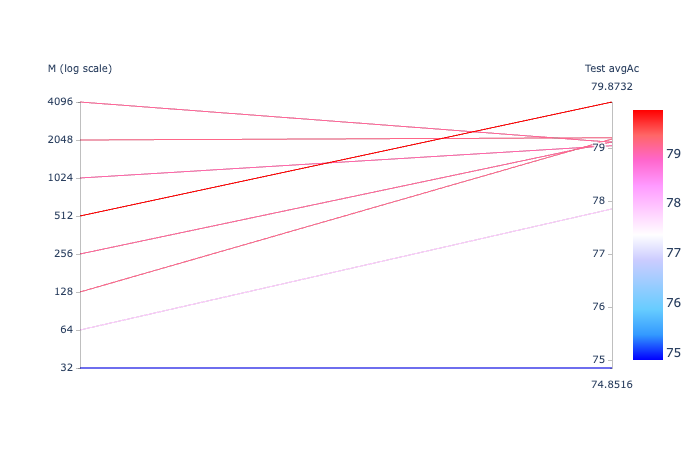
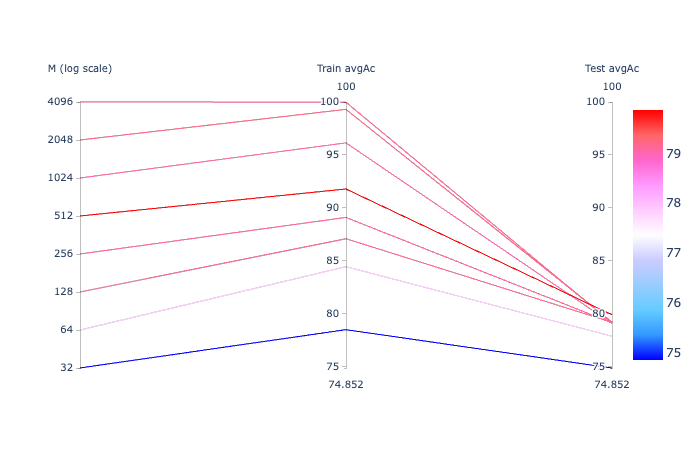
adjs to optionally include Train avgAc in plot

diff --git a/exerc06/summary-parallel.py b/exerc06/summary-parallel.py
@@ -4,7 +4,7 @@ import plotly.graph_objects as go
 import numpy as np
 
 
-def do_plot(csv_filename):
+def do_plot(csv_filename, show_train):
     summary = pd.read_csv(csv_filename)
 
     dimensions = []
@@ -23,53 +23,64 @@ def do_plot(csv_filename):
         )
         dimensions.append(d)
 
-    def add_other_dimension(label, values):
+    def add_other_dimension(label, values, range=None):
+        range = range or [values.min(), values.max()]
+        # print('range={}  label={}'.format(range, label))
         d = dict(
           label = label,
-          range = [values.min(), values.max()],
+          range = range,
           values = values
         )
-        if label != 'Test avgAc':
+        if label != 'Test avgAc' and label != 'Train avgAc':
             d['tickvals'] = values.unique()
         dimensions.append(d)
 
+    test_avg_ac = summary['Test avgAc']
+
+    # when also showing 'Train avgAc', a common `range` for this one
+    # and 'Test avgAc' helps with the visualization
+    range = None
+
+    def add_train_if_so_desired():
+      if show_train:
+          train_avg_ac = summary['Train avgAc']
+          range_min = min(train_avg_ac.min(), test_avg_ac.min())
+          range_max = max(train_avg_ac.max(), test_avg_ac.max())
+          if range_max >= 97:
+              range_max = 100
+          range = [range_min, range_max]
+          # print('range={}'.format(range))
+          add_other_dimension('Train avgAc', train_avg_ac, range)
+          return range
+
     # the regular hmm-generated:
     if csv_filename == 'hmm-summary.csv':
-        # selection = summary[['N', 'M', 'I', 'Test avgAc']]
         add_other_dimension('N', summary['N'])
-        # add_other_dimension('M', summary['M'])
         add_m_dimension(summary['M'])
         add_other_dimension('I', summary['I'])
+        range = add_train_if_so_desired()
 
     # ad hoc for other tests:
     elif csv_filename == 'nb-summary.csv' or \
-         csv_filename == 'vq-summary.csv':
-        selection = summary[['M', 'Test avgAc']]
+         csv_filename == 'vq-summary.csv' or \
+         csv_filename == 'mm-summary.csv':
         add_m_dimension(summary['M'])
-
-    elif csv_filename == 'mm-summary.csv':
-        selection = summary[['M', 'Train avgAc', 'Test avgAc']]
-        add_m_dimension(summary['M'])
+        range = add_train_if_so_desired()
 
     else:
         print(f'unrecognized file: {csv_filename}')
         return
 
-    add_other_dimension('Test avgAc', summary['Test avgAc'])
+    add_other_dimension('Test avgAc', test_avg_ac, range)
 
     fig = go.Figure(data=go.Parcoords(
         line = dict(
-          color = summary['Test avgAc'],
+          color = test_avg_ac,
           colorscale = 'Picnic',
           showscale = True,
         ),
         dimensions = dimensions,
     ))
-
-    # fig = px.parallel_coordinates(selection,
-    #                               color='Test avgAc',
-    #                               color_continuous_scale=px.colors.diverging.Picnic
-    #                               )
 
     # fig.write_image('summary-parallel.png')
     fig.show()
@@ -77,7 +88,8 @@ def do_plot(csv_filename):
 
 if __name__ == "__main__":
     import sys
-    if len(sys.argv) == 2:
-        do_plot(sys.argv[1])
+    if 2 <= len(sys.argv) <= 3:
+        show_train = len(sys.argv) == 3 and sys.argv[2] == 'show-train'
+        do_plot(sys.argv[1], show_train)
     else:
-        print('USAGE: summary-parallel.py <csv-filename>')
+        print('USAGE: summary-parallel.py <csv-filename> [show-train]')

diff --git a/exerc06/README.md b/exerc06/README.md
@@ -262,13 +262,16 @@ II       7       79.75%     237        189   38    6    2    2    0    0    0
   avg_accuracy   86.37%
 ```
 
-## Markov training and classification
+## Markov chain model training and classification
 
 ```
 ./mm-exercise.sh
 
-python3 ./summary-parallel.py mm-summary.csv
+python3 ./summary-parallel.py mm-summary.csv show-train
 ```
+
+In this plot we also include the average accuraccy over the training instances ('Train avgAc')
+as a way to easily compare it with the average accuracy over the test instances.
 
 ![](mm-summary.png)
 
